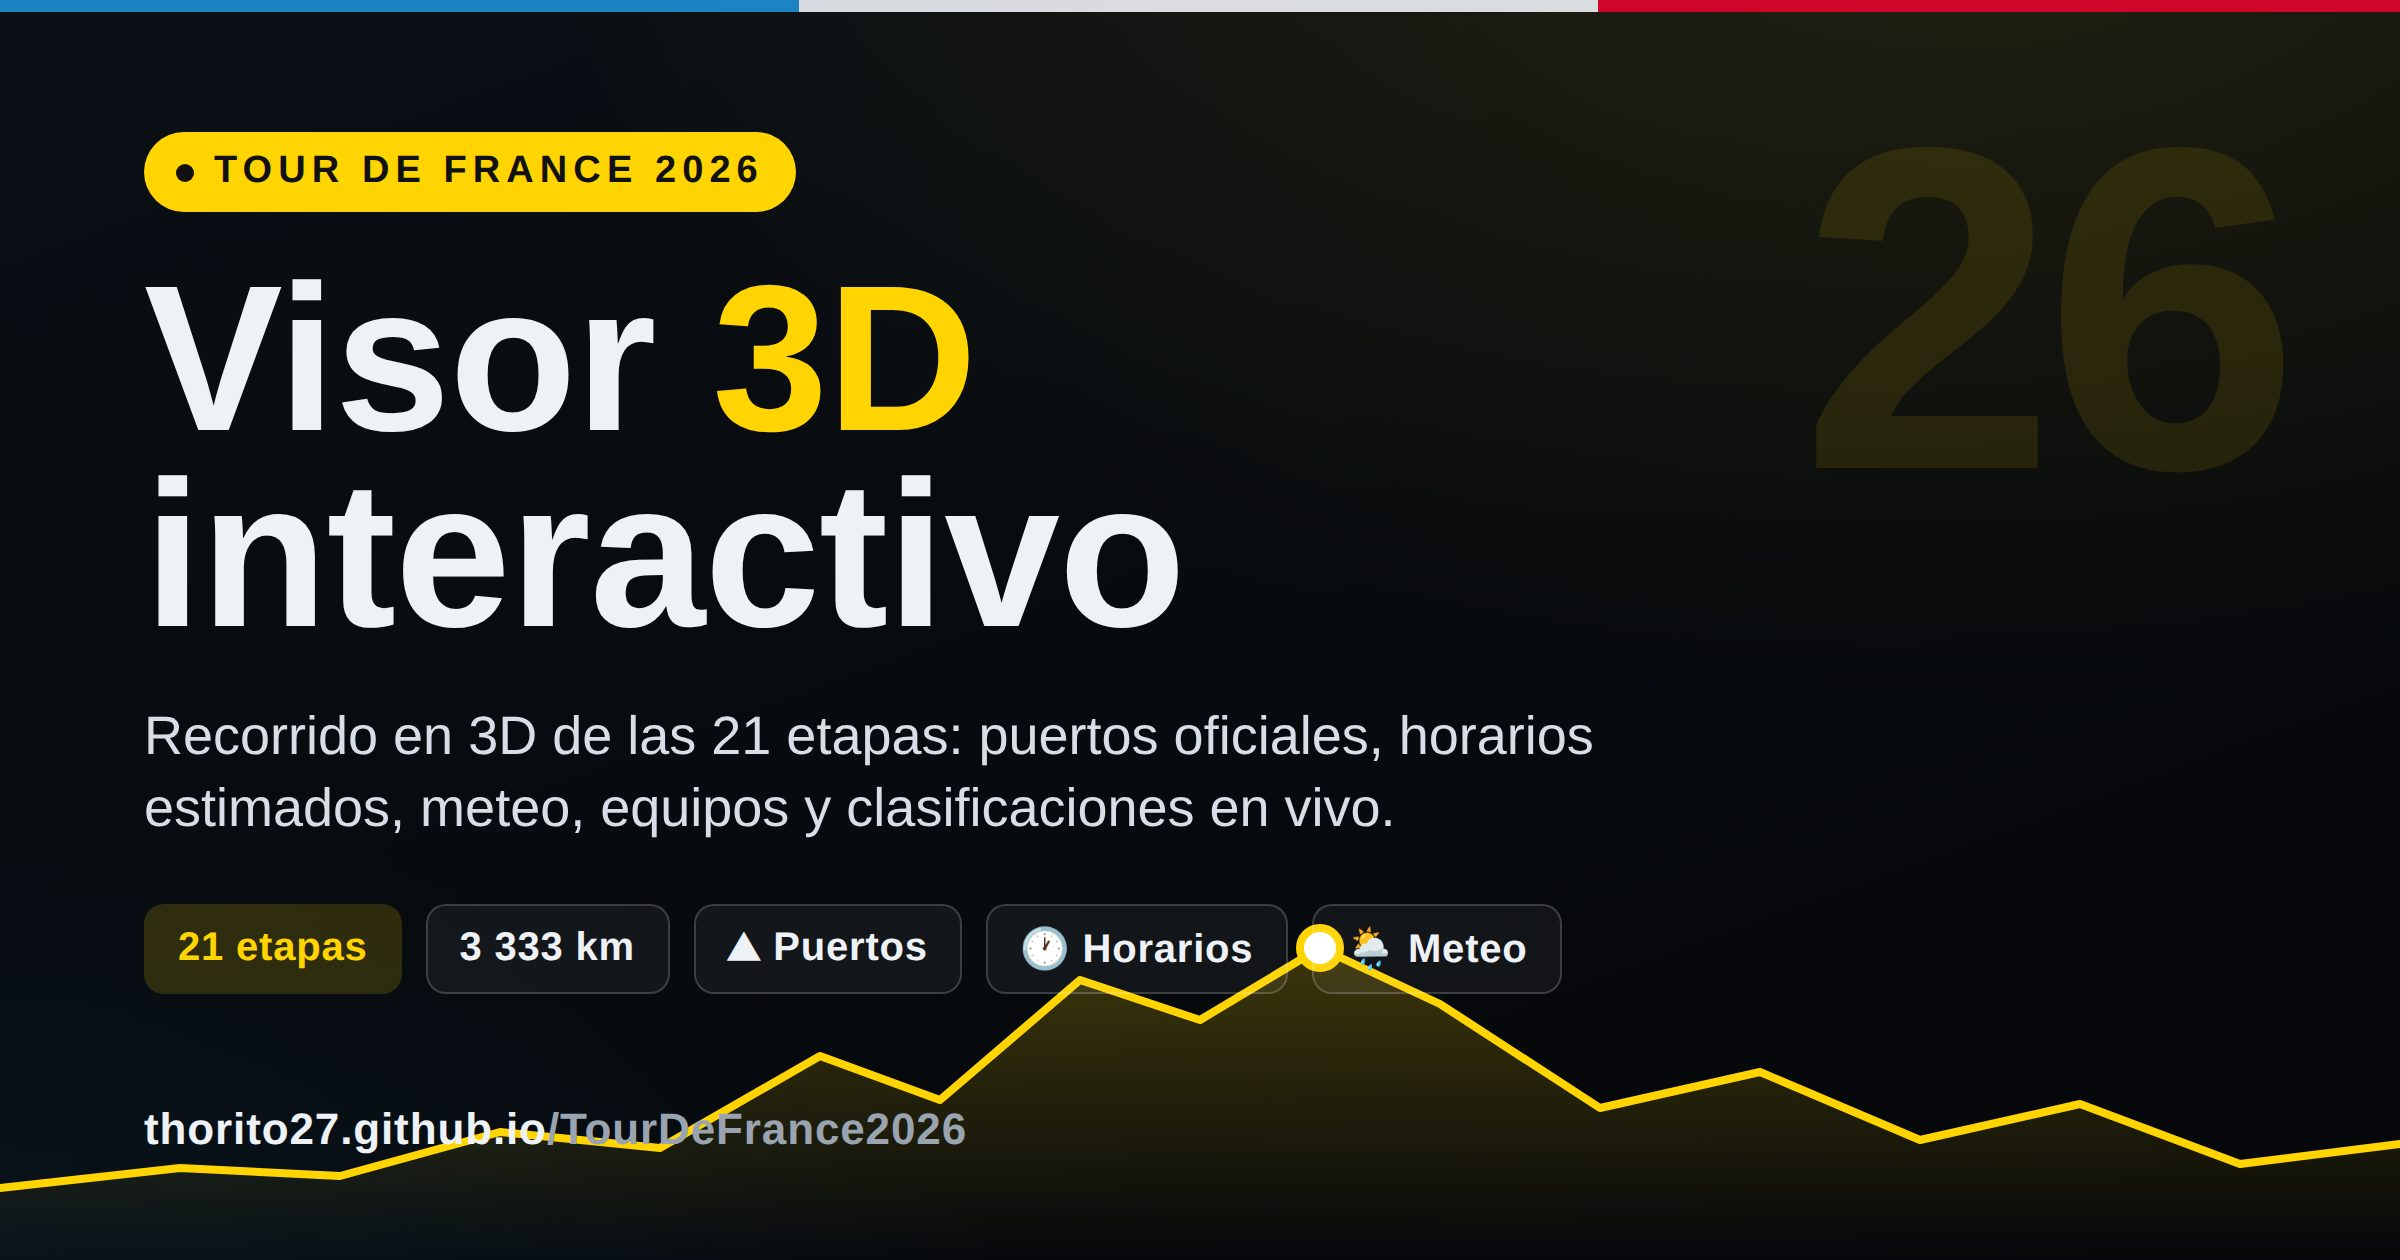
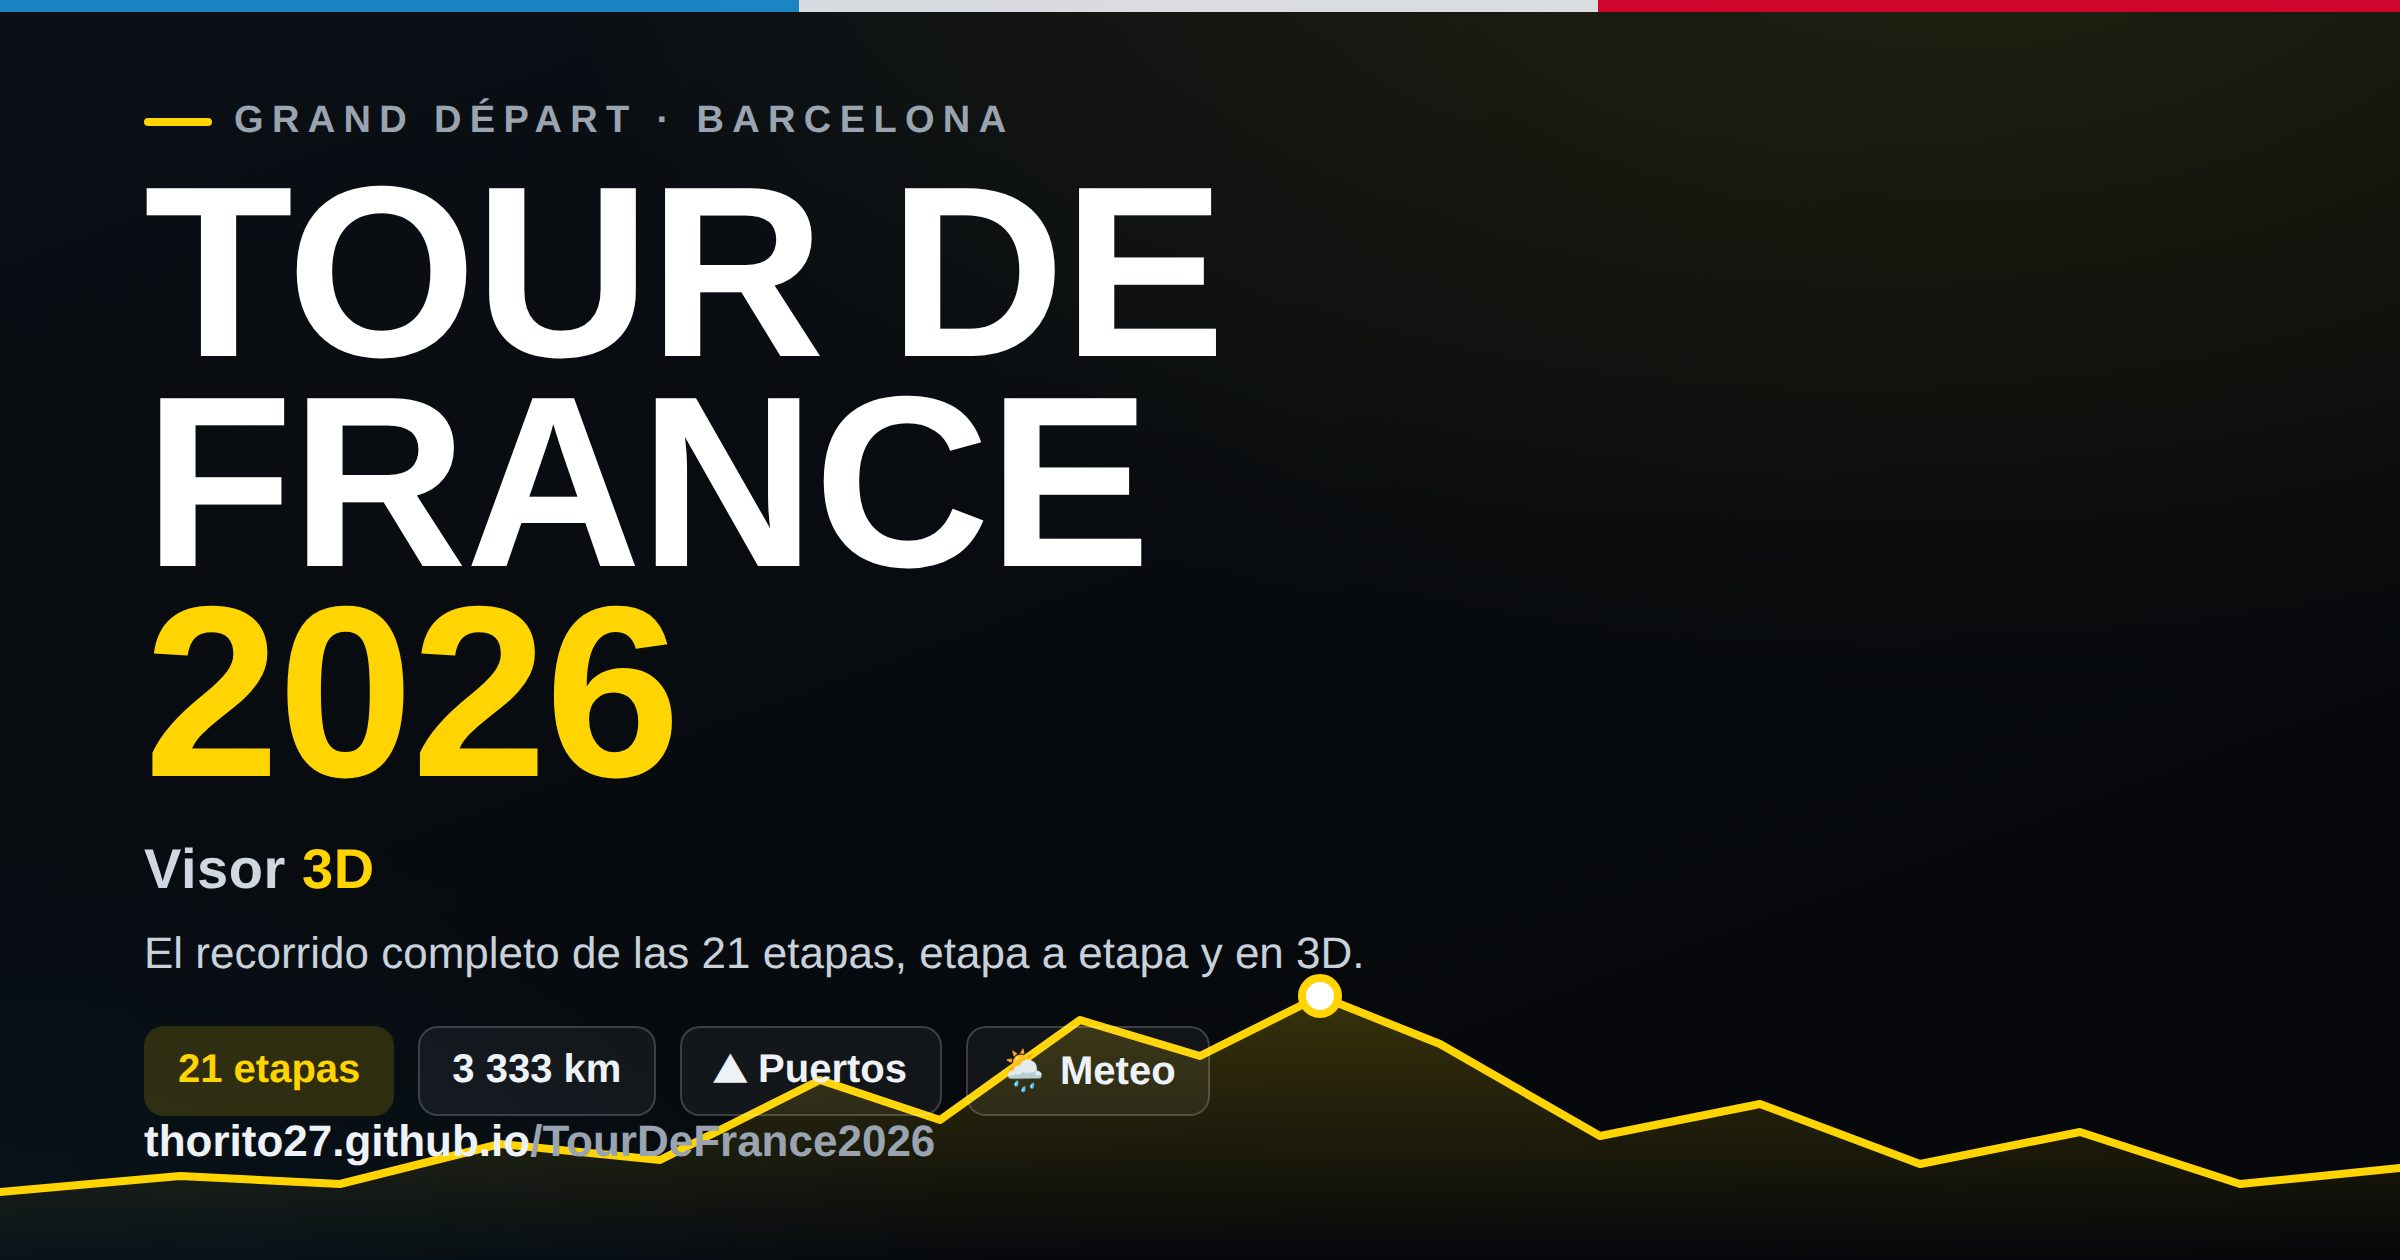
Tarjeta og:image v2: 'Tour de France 2026' protagonista, 'Visor 3D' más pequeño
Claude-Session: https://claude.ai/code/session_013h7ZRg8JUuRBxp1chXG72f

Changed region(s): [[0.0, 0.0619, 1.0, 0.9595], [0.75, 0.2476, 0.9688, 0.3714]]

diff --git a/index.html b/index.html
@@ -8,13 +8,13 @@
 <meta property="og:description" content="Recorrido interactivo en 3D de las 21 etapas del Tour de Francia 2026: puertos oficiales, horarios estimados, equipos y clasificaciones en vivo.">
 <meta property="og:type" content="website">
 <meta property="og:url" content="https://thorito27.github.io/TourDeFrance2026/">
-<meta property="og:image" content="https://thorito27.github.io/TourDeFrance2026/og-image.jpg">
+<meta property="og:image" content="https://thorito27.github.io/TourDeFrance2026/og-image.jpg?v=2">
 <meta property="og:image:type" content="image/jpeg">
 <meta property="og:image:width" content="2400">
 <meta property="og:image:height" content="1260">
 <meta property="og:image:alt" content="Tour de France 2026 · Visor 3D interactivo — 21 etapas, 3 333 km">
 <meta name="twitter:card" content="summary_large_image">
-<meta name="twitter:image" content="https://thorito27.github.io/TourDeFrance2026/og-image.jpg">
+<meta name="twitter:image" content="https://thorito27.github.io/TourDeFrance2026/og-image.jpg?v=2">
 <link href="https://unpkg.com/maplibre-gl@4.7.1/dist/maplibre-gl.css" rel="stylesheet" />
 <script src="https://unpkg.com/maplibre-gl@4.7.1/dist/maplibre-gl.js"></script>
 <link href="https://fonts.googleapis.com/css2?family=Oswald:wght@400;500;600;700&family=Inter:wght@400;500;600&display=swap" rel="stylesheet" />